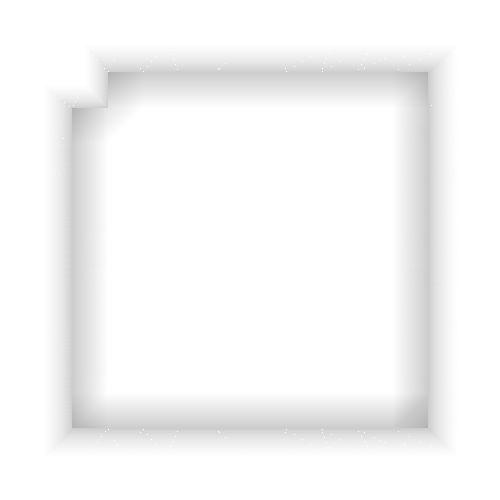
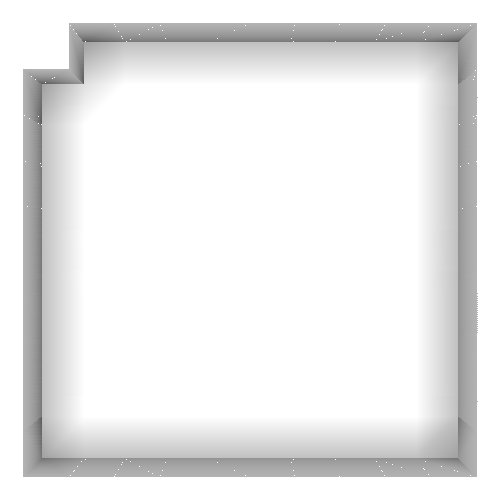
better AO, added simple shading

diff --git a/src/render/block.c b/src/render/block.c
@@ -32,39 +32,49 @@ int index2D(int* grid, size_t x, size_t y, size_t width, size_t height, int outB
 	return grid[y * width + x];
 }
 
+int vertexAO(int side0, int side1, int corner) {
+	if (side0 && side1) {
+		return 3;
+	}
+	return side0 + side1 + corner;
+}
+
 VertexBuffer fromGrid(int* grid, size_t width, size_t height) {
 	VertexBuffer vertices = newBuffer();
 	for (int j = 0; j <= height; j++) {
 		for (int i = 0; i <= width; i++) {
 			float x = i - width/2.0;
 			float y = j - height/2.0;
-			if (
-				index2D(grid, i, j, width, height, 1) !=
-				index2D(grid, i, j - 1, width, height, 1)
-			) {
-				bufferPush(&vertices, (Vertex) {.pos = vec3(x, y, 0), .adjacent = 0});
-				bufferPush(&vertices, (Vertex) {.pos = vec3(x + 1, y, 0), .adjacent = 0});
-				bufferPush(&vertices, (Vertex) {.pos = vec3(x, y, 1), .adjacent = 2});
-				bufferPush(&vertices, (Vertex) {.pos = vec3(x + 1, y, 1), .adjacent = 2});
-			}
-			if (
-				index2D(grid, i, j, width, height, 1) !=
-				index2D(grid, i - 1, j, width, height, 1)
-			) {
-				bufferPush(&vertices, (Vertex) {.pos = vec3(x, y + 1, 0), .adjacent = 0});
-				bufferPush(&vertices, (Vertex) {.pos = vec3(x, y, 0), .adjacent = 0});
-				bufferPush(&vertices, (Vertex) {.pos = vec3(x, y + 1, 1), .adjacent = 2});
-				bufferPush(&vertices, (Vertex) {.pos = vec3(x, y, 1), .adjacent = 2});
-			}
+
+			int middle = index2D(grid, i, j, width, height, 1);
+
 			int top = index2D(grid, i, j - 1, width, height, 1);
 			int left = index2D(grid, i - 1, j, width, height, 1);
 			int bottom = index2D(grid, i, j + 1, width, height, 1);
 			int right = index2D(grid, i + 1, j, width, height, 1);
+
+			int topleft = index2D(grid, i - 1, j - 1, width, height, 1);
+			int topright = index2D(grid, i + 1, j - 1, width, height, 1);
+			int bottomleft = index2D(grid, i -1, j + 1, width, height, 1);
+			int bottomright = index2D(grid, i + 1, j + 1, width, height, 1);
+
+			if (middle != top) {
+				bufferPush(&vertices, (Vertex) {.pos = vec3(x, y, 0), .adjacent = 0});
+				bufferPush(&vertices, (Vertex) {.pos = vec3(x + 1, y, 0), .adjacent = 0});
+				bufferPush(&vertices, (Vertex) {.pos = vec3(x, y, 1), .adjacent = vertexAO(top, left, topleft)});
+				bufferPush(&vertices, (Vertex) {.pos = vec3(x + 1, y, 1), .adjacent = vertexAO(top, right, topright)});
+			}
+			if (middle != left) {
+				bufferPush(&vertices, (Vertex) {.pos = vec3(x, y + 1, 0), .adjacent = 0});
+				bufferPush(&vertices, (Vertex) {.pos = vec3(x, y, 0), .adjacent = 0});
+				bufferPush(&vertices, (Vertex) {.pos = vec3(x, y + 1, 1), .adjacent = vertexAO(top, left, topleft)});
+				bufferPush(&vertices, (Vertex) {.pos = vec3(x, y, 1), .adjacent = vertexAO(bottom, left, bottomleft)});
+			}
 			int z = 1 - index2D(grid, i, j, width, height, 1);
-			bufferPush(&vertices, (Vertex) {.pos = vec3(x, y, z), .adjacent = z * (top + left + index2D(grid, i-1, j-1, width, height, 1))});
-			bufferPush(&vertices, (Vertex) {.pos = vec3(x + 1, y, z), .adjacent = z * (top + right + index2D(grid, i+1, j-1, width, height, 1))});
-			bufferPush(&vertices, (Vertex) {.pos = vec3(x, y + 1, z), .adjacent = z * (bottom + left + index2D(grid, i-1, j+1, width, height, 1))});
-			bufferPush(&vertices, (Vertex) {.pos = vec3(x + 1, y + 1, z), .adjacent = z * (bottom + right + index2D(grid, i+1, j+1, width, height, 1))});
+			bufferPush(&vertices, (Vertex) {.pos = vec3(x, y, z), .adjacent = z * vertexAO(top, left, topleft)});
+			bufferPush(&vertices, (Vertex) {.pos = vec3(x + 1, y, z), .adjacent = z * vertexAO(top, right, topright)});
+			bufferPush(&vertices, (Vertex) {.pos = vec3(x, y + 1, z), .adjacent = z * vertexAO(bottom, left, bottomleft)});
+			bufferPush(&vertices, (Vertex) {.pos = vec3(x + 1, y + 1, z), .adjacent = z * vertexAO(bottom, right, bottomright)});
 		}
 	}
 

diff --git a/src/render/render.c b/src/render/render.c
@@ -49,10 +49,10 @@ void render(unsigned char* image, size_t width, size_t height) {
 
 	Camera camera;
 	camera.pos = vec3(0, 0, -1);
-	camera.focalLength = 5;
+	camera.focalLength = 10;
 
 	float scaleFactor = 50.0;
-	float shadowRatio = 8.0;
+	float shadowRatio = 1/8.0;
 
 	outer: for (int i = 0; i < vertices.len; i+=4) {
 		Vec3 face[4];
@@ -69,33 +69,52 @@ void render(unsigned char* image, size_t width, size_t height) {
 			face[j] = vec3(x, y, projected.z);
 			adjacent[j] = vertex->adjacent;
 		}
+		Vec3 v0 = bufferGet(&vertices, i + 0)->pos;
+		Vec3 v1 = bufferGet(&vertices, i + 1)->pos;
+		Vec3 v2 = bufferGet(&vertices, i + 2)->pos;
+		Vec3 a = vec3(
+			v1.x - v0.x,
+			v1.y - v0.y,
+			v1.z - v0.z
+		);
+		Vec3 b = vec3(
+			v2.x - v0.x,
+			v2.y - v0.y,
+			v2.z - v0.z
+		);
+		float shading = fabs(normalise(vec3(
+			a.y*b.z - a.z*b.y,
+			a.z*b.x - a.x*b.z,
+			a.x*b.y - a.y*b.x
+		)).z);
+		shading = (1 - shading) * 0.3;
 		trifill(pixels,
 			(FillVertex) {
 				.pos = face[0],
-				.color = color(0, 0, 0, adjacent[0]/shadowRatio)
+				.color = color(0, 0, 0, adjacent[0]*shadowRatio + shading)
 			},
 			(FillVertex) {
 				.pos = face[1],
-				.color = color(0, 0, 0, adjacent[1]/shadowRatio)
+				.color = color(0, 0, 0, adjacent[1]*shadowRatio + shading)
 			},
 			(FillVertex) {
 				.pos = face[2],
-				.color = color(0, 0, 0, adjacent[2]/shadowRatio)
+				.color = color(0, 0, 0, adjacent[2]*shadowRatio + shading)
 			},
 			width, height
 		);
 		trifill(pixels,
 			(FillVertex) {
 				.pos = face[1],
-				.color = color(0, 0, 0, adjacent[1]/shadowRatio)
+				.color = color(0, 0, 0, adjacent[1]*shadowRatio + shading)
 			},
 			(FillVertex) {
 				.pos = face[2],
-				.color = color(0, 0, 0, adjacent[2]/shadowRatio)
+				.color = color(0, 0, 0, adjacent[2]*shadowRatio + shading)
 			},
 			(FillVertex) {
 				.pos = face[3],
-				.color = color(0, 0, 0, adjacent[3]/shadowRatio)
+				.color = color(0, 0, 0, adjacent[3]*shadowRatio + shading)
 			},
 			width, height
 		);

diff --git a/src/render/type/type.h b/src/render/type/type.h
@@ -1,11 +1,14 @@
 #pragma once
 
+#include "math.h"
+
 typedef struct Vec3 {
 	float x, y, z;
 } Vec3;
 
 Vec3 vec3(float x, float y, float z);
 Vec3 vec3Lerp(Vec3 p0, Vec3 p1, float t);
+Vec3 normalise(Vec3 p);
 
 typedef struct Color {
 	float r, g, b, a;

diff --git a/src/render/type/type.c b/src/render/type/type.c
@@ -25,6 +25,11 @@ Vec3 vec3Div(Vec3 p0, float p1) {
 	);
 }
 
+Vec3 normalise(Vec3 p) {
+	float length = sqrtf(p.x*p.x + p.y*p.y + p.z*p.z);
+	return vec3Div(p, length);
+}
+
 Color color (float r, float g, float b, float a) {
 	return (Color) {
 		.r = r,
